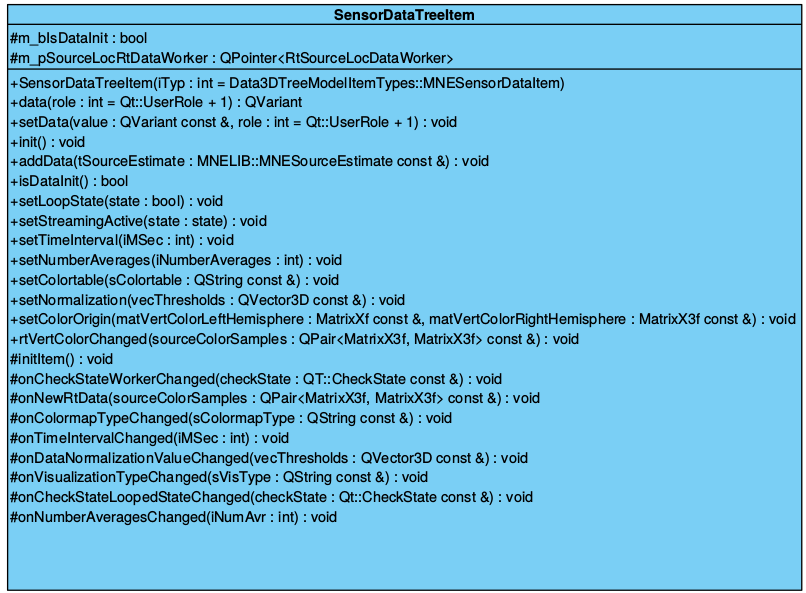
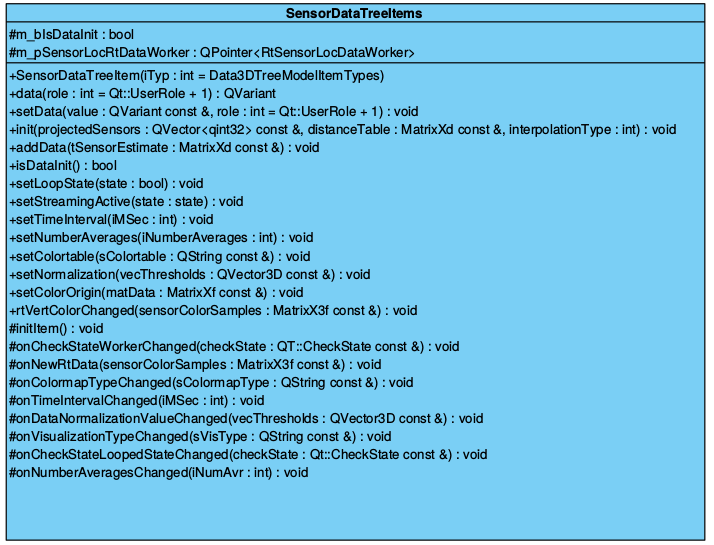
Changed page margins, updated sensor tree item class diagram, changed risk estimate

Changed region(s): [[0.0, 0.0, 1.0, 0.9982]]

diff --git a/revdocs/Reviewdokument/02Resultsofplanning.tex b/revdocs/Reviewdokument/02Resultsofplanning.tex
@@ -24,7 +24,7 @@ The main purpose in the effort estimation section is the categorization of the d
 
 \begin{figure}[h]
 	\begin{center}
-		\includegraphics[width= 14cm]{figures/Aufwandsabschaetzung.pdf}
+		\includegraphics[width= 14cm]{figures/aufwandsabschaetzung.png}
 		\caption{Effort estimate}
 	\end{center}
 \end{figure}
@@ -46,7 +46,7 @@ In this section, the probabilities of the different risks involved in the projec
 
 \begin{figure}[h]
 	\begin{center}
-		\includegraphics[width= 15cm]{figures/Risikoabschaetzung.pdf}
+		\includegraphics[width= 15cm]{figures/risikoabschaetzung.png}
 		\caption{Risk estimate}
 	\end{center}
 \end{figure}

diff --git a/revdocs/Reviewdokument/grobentwurf/_Grobentwurf.tex b/revdocs/Reviewdokument/grobentwurf/_Grobentwurf.tex
@@ -12,6 +12,7 @@
 \usepackage{listings}
 \usepackage{graphicx}
 \usepackage{enumitem}
+\usepackage[paper=a4paper,left=35mm,right=35mm,top=35mm,bottom=30mm]{geometry}
 
 \hypersetup{colorlinks=true, breaklinks=true, linkcolor=darkblue, menucolor=black, urlcolor=darkblue, citecolor=darkblue}
 

diff --git a/revdocs/Pflichtenheft/_FunctionalSpecification.tex b/revdocs/Pflichtenheft/_FunctionalSpecification.tex
@@ -18,7 +18,7 @@
 \usepackage{enumitem}
 \usepackage{caption}
 \usepackage{wrapfig}
-\usepackage[paper=a4paper,left=35mm,right=35mm,top=30mm,bottom=30mm]{geometry}
+\usepackage[paper=a4paper,left=35mm,right=35mm,top=35mm,bottom=30mm]{geometry}
 
 %%%PAGESTYLE%%%
 \pagestyle{fancy}
